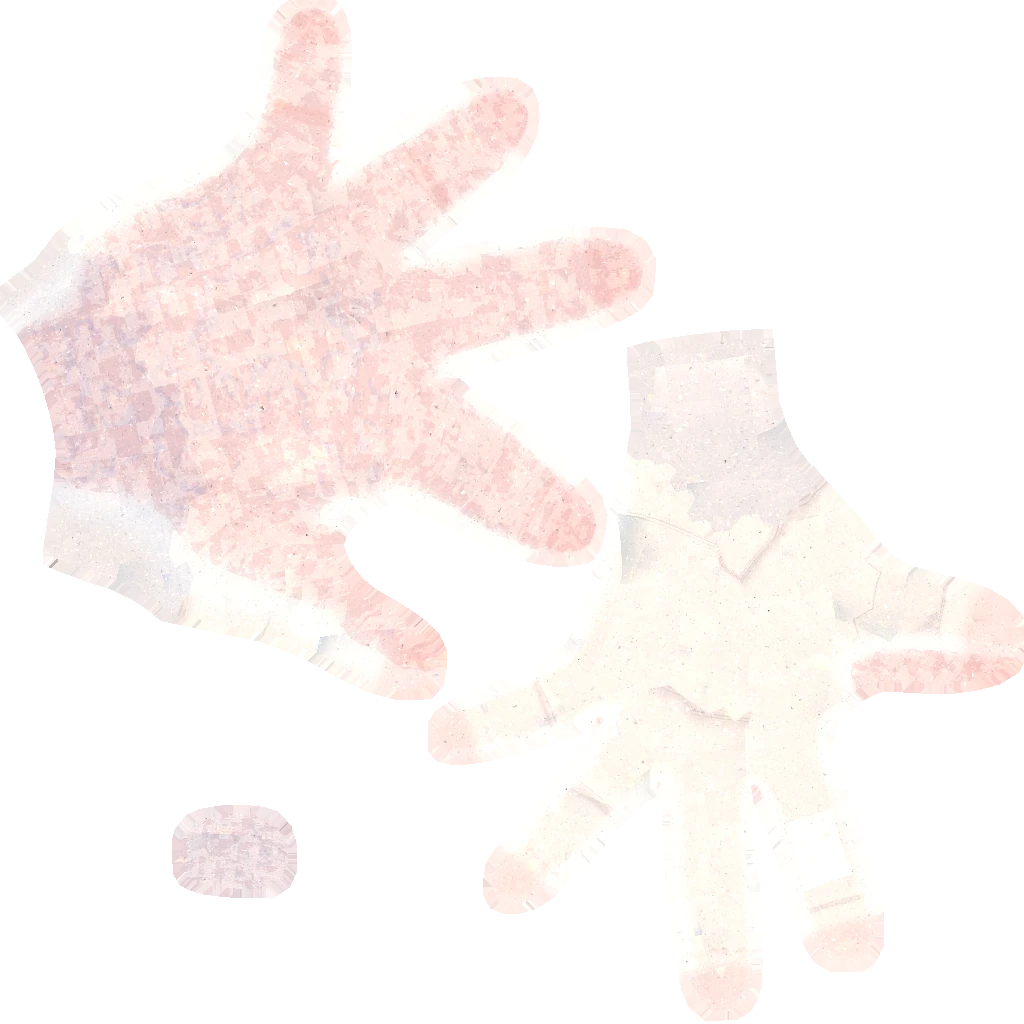
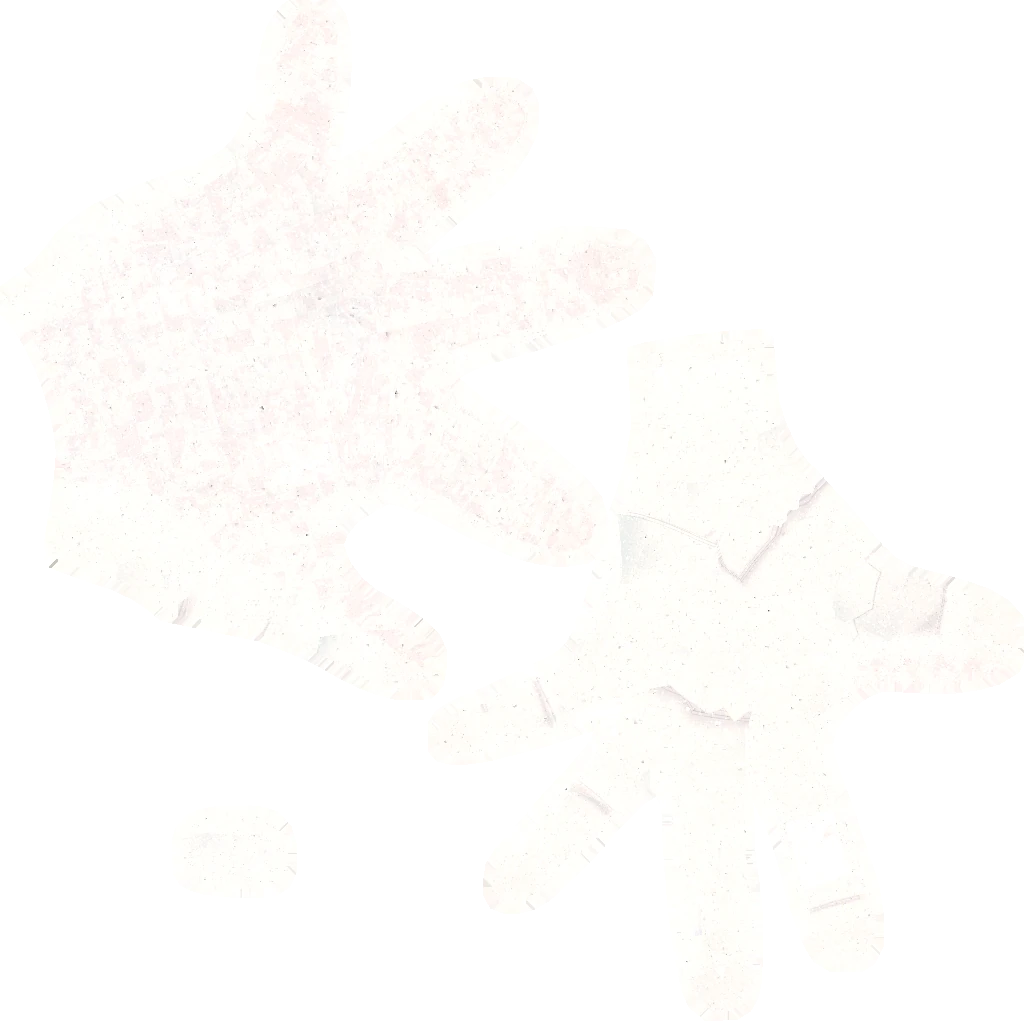
Hands: keep realistic skin a light modulation of the swatch
The first bake reddened the back of the hand. Albedo, pores and the forearm normal are quieter, so the tone swatch still drives the colour and the wrist meets the forearm.

diff --git a/src/hands/realisticSkin.ts b/src/hands/realisticSkin.ts
@@ -18,7 +18,7 @@ export function prepareSkinMaps(maps: THREE.Texture[]) {
   albedo.colorSpace = THREE.SRGBColorSpace
   for (const t of [normal, surface, ao, pores]) t.colorSpace = THREE.NoColorSpace
   pores.wrapS = pores.wrapT = THREE.RepeatWrapping
-  pores.repeat.set(12, 18)
+  pores.repeat.set(18, 28)
   for (const t of maps) { t.flipY = true; t.needsUpdate = true }
 }
 
@@ -73,7 +73,7 @@ function patchedPars() {
   src = patchOnce(
     src,
     /reflectedLight\.directDiffuse \+= lightColor \* material\.diffuseContribution \* LTC_Evaluate\( normal, viewDir, position, mat3\( 1\.0 \), rectCoords \);/,
-    `float skinLtc = LTC_Evaluate( normal, viewDir, position, mat3( 1.0 ), rectCoords );
+    `vec3 skinLtc = LTC_Evaluate( normal, viewDir, position, mat3( 1.0 ), rectCoords );
 		reflectedLight.directDiffuse += lightColor * material.diffuseContribution * skinLtc;
 		float skinMatteR = mix( 0.4, 1.0, smoothstep( 0.0, 0.08, specularIntensity ) );
 		reflectedLight.directDiffuse += lightColor * uSSS * gThin * skinMatteR * 0.65 * material.diffuseContribution * LTC_Evaluate( - normal, viewDir, position, mat3( 1.0 ), rectCoords );`,
@@ -124,8 +124,8 @@ float gCavity;
 		gThin = surf.r;
 		gMask = surf.b;
 		vec4 aoTex = texture2D( tAO, vMapUv );
-		gCavity = mix( 1.0, dot( aoTex, uAOMix ), 0.82 );
-		diffuseColor.rgb = mix( diffuseColor.rgb, diffuseColor.rgb * vec3( 1.0, 0.78, 0.72 ), ( 1.0 - gThin ) * 0.42 );
+		gCavity = mix( 1.0, dot( aoTex, uAOMix ), 0.55 );
+		diffuseColor.rgb = mix( diffuseColor.rgb, diffuseColor.rgb * vec3( 1.0, 0.86, 0.82 ), ( 1.0 - gThin ) * 0.16 );
 	}
 #endif
 #include <lights_physical_fragment>`
@@ -172,7 +172,7 @@ export function realisticHandMaterial(tone: SkinTone, maps: THREE.Texture[]) {
   const mat = physical(tone, {
     map: albedo,
     normalMap: normal,
-    normalScale: new THREE.Vector2(0.55, 0.55),
+    normalScale: new THREE.Vector2(0.28, 0.28),
     roughness: 1,
     roughnessMap: surface,
   })
@@ -188,7 +188,7 @@ export function realisticHandMaterial(tone: SkinTone, maps: THREE.Texture[]) {
     tSurface: { value: surface },
     tAO: { value: ao },
   })
-  mat.customProgramCacheKey = () => 'om-skin-hand-1'
+  mat.customProgramCacheKey = () => 'om-skin-hand-3'
   return mat
 }
 
@@ -196,10 +196,10 @@ export function realisticHandMaterial(tone: SkinTone, maps: THREE.Texture[]) {
 export function realisticArmMaterial(tone: SkinTone, pores: THREE.Texture) {
   const mat = physical(tone, {
     normalMap: pores,
-    normalScale: new THREE.Vector2(0.35, 0.35),
-    roughness: 0.62,
+    normalScale: new THREE.Vector2(0.035, 0.035),
+    roughness: 0.58,
   })
   mat.onBeforeCompile = (shader) => compileSkin(shader as SkinShader, 'arm', {})
-  mat.customProgramCacheKey = () => 'om-skin-arm-1'
+  mat.customProgramCacheKey = () => 'om-skin-arm-4'
   return mat
 }
